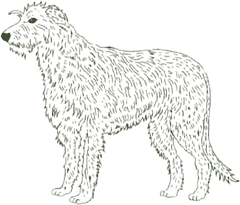
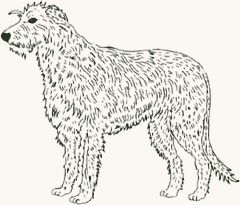
Guest emails in the Engraved card style, in their own Emails.gs
Claude-Session: https://claude.ai/code/session_011vr6tDpRP4KxroEZzxMLDE

Changed region(s): [[0.0, 0.0, 1.0, 1.0], [0.7875, 0.9366, 0.8458, 0.9951]]

diff --git a/rsvp/README.md b/rsvp/README.md
@@ -6,6 +6,7 @@ Replies are written straight into the private "Wedding Spreadsheet" Google Sheet
 1. Open the Wedding Spreadsheet in Google Sheets.
 2. Go to **Extensions → Apps Script**.
 3. Delete whatever is in the editor, paste in everything from `Code.gs`, and click **Save**.
+4. Click **+** next to **Files** → **Script**, name it `Emails`, paste in everything from `Emails.gs`, and click **Save**. This file holds the design and wording of the guest emails.
 
 ## 2. Run the setup once
 1. In the toolbar, choose the function **setup** and click **Run**.
